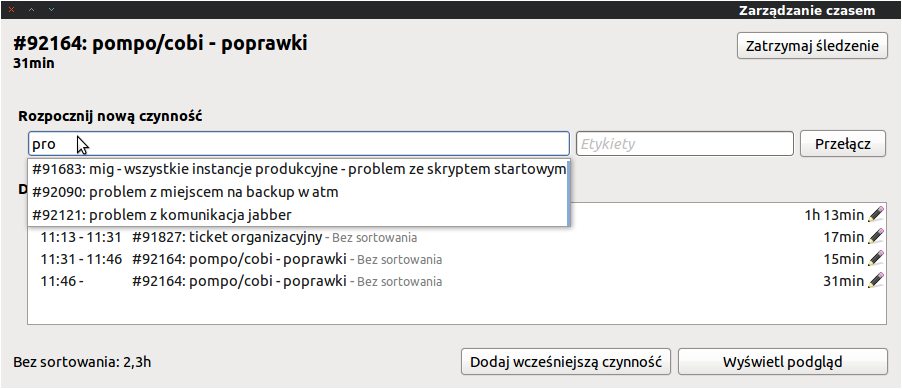
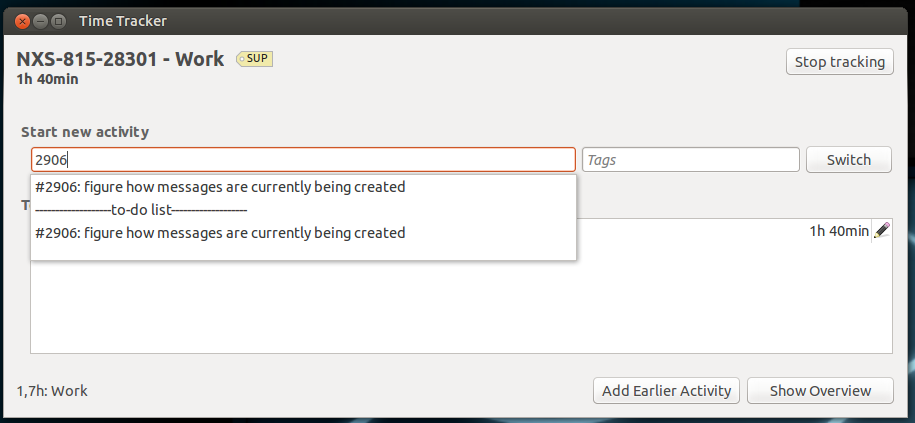
Changed entry.png and readme + fixed dry run to actually be a dry run

Changed region(s): [[0.0, 0.0, 1.0, 1.0], [0.1242, 0.7095, 0.4967, 0.7404]]

diff --git a/src/hamster/exportrt.py b/src/hamster/exportrt.py
@@ -223,8 +223,8 @@ class ExportRtController(gtk.Object):
         self.get_widget("activities").add(self.view)
         self.aggregate_comments_checkbox = self.get_widget("aggregate_comments_checkbox")
         self.aggregate_comments_checkbox.set_active(True)
-        self.test_checkox = self.get_widget("test_checkbox")
-        self.test_checkox.set_active(False)
+        self.test_checkbox = self.get_widget("test_checkbox")
+        self.test_checkbox.set_active(False)
         self.progressbar = self.get_widget("progressbar")
         self.progressbar.set_text(_("Waiting for action"))
         self.progressbar.set_orientation(gtk.PROGRESS_LEFT_TO_RIGHT)
@@ -283,47 +283,21 @@ class ExportRtController(gtk.Object):
                 self.progressbar.set_fraction(float(i)/to_report_len)
                 while gtk.events_pending(): 
                     gtk.main_iteration()
-                if self.source == "rt":
-                    self.__comment_ticket(to_report['id'], to_report['comment'], to_report['time'], to_report['facts'])
-                elif self.source == "redmine":
+                if self.source == "redmine":
                     #act# self.__add_time_entry(to_report['id'], to_report['date'], math.ceil(to_report['time']*100/60)/100, to_report['comment'], to_report['facts'], to_report['activity'])
                     self.__add_time_entry(to_report['id'], to_report['date'], math.ceil(to_report['time']*100/60)/100, to_report['comment'], to_report['facts'])
             self.progressbar.set_text("Done")
             self.progressbar.set_fraction(1.0)
-#            for fact in self.facts:
-#                match = re.match(TICKET_NAME_REGEX, fact.activity)
-#                if fact.end_time and match:
-#                    ticket_id = match.group(1)
-#                    text = self.get_text(fact)
-#                    time_worked = stuff.duration_minutes(fact.delta)
-#                    logging.warn(ticket_id)
-#                    logging.warn(text)
-#                    logging.warn("minutes: %s" % time_worked)
-##                    external.tracker.comment(ticket_id, text, time_worked)
-#                else:
-#                    logging.warn("Not a RT ticket or in progress: %s" % fact.activity)
         else:
             logging.warn(_("Not connected to/logged in RT"))
         self.start_button.set_sensitive(False)
         #TODO only if parent is overview
         self.parent.search()
             
-    def __comment_ticket(self, ticket_id, text, time_worked, facts):
-        test = self.test_checkox.get_active()
-#        logging.warn(_("updating ticket #%s: %s min, comment: \n%s") % (ticket_id, time_worked, text))
-        if not test:
-            time = time_worked
-        else:
-            time = 0
-
-        if self.tracker.comment(ticket_id, text, time) and not test:
-            for fact in facts:
-                runtime.storage.update_fact(fact.id, fact, False,True)
-#                fact_row.selected = False
             
     #act# def __add_time_entry(self, issue_id, spent_on, hours, comments, facts, activity):
     def __add_time_entry(self, issue_id, spent_on, hours, comments, facts):
-        test = self.test_checkox.get_active()
+        test = self.test_checkbox.get_active()
         logging.warn(_("updating issue #%s: %s hrs, comment: \n%s") % (issue_id, hours, comments))
         time_entry_data = {'time_entry': {}}
         time_entry_data['time_entry']['issue_id'] = issue_id
@@ -332,23 +306,17 @@ class ExportRtController(gtk.Object):
         time_entry_data['time_entry']['comments'] = comments
         #act# time_entry_data['time_entry']['activity_id'] = 9 if activity == -1 else activity
         time_entry_data['time_entry']['activity_id'] = 9
-
-        
-        r = self.tracker.createTimeEntry(time_entry_data)
-        logging.warn(r.status_code)
-        logging.warn(r.content)
-        if r.status_code == 201 and not test:
-            for fact in facts:
-                runtime.storage.update_fact(fact.id, fact, False,True)
-#                fact_row.selected = False
-
-    def get_text(self, fact):
-        text = "%s, %s-%s" % (fact.date, fact.start_time.strftime("%H:%M"), fact.end_time.strftime("%H:%M"))
-        if fact.description:
-            text += ": %s" % (fact.description)
-        if fact.tags:
-            text += " ("+", ".join(fact.tags)+")"
-        return text
+        for fact in facts:
+            print fact.id
+            print fact
+        if not test:
+            r = self.tracker.createTimeEntry(time_entry_data)
+            logging.warn(r.status_code)
+            logging.warn(r.content)
+            if r.status_code == 201:
+                for fact in facts:
+                    runtime.storage.update_fact(fact.id, fact, False,True)
+    #                fact_row.selected = False
 
     def on_window_key_pressed(self, tree, event_key):
         popups = self.start_date.popup.get_property("visible") or \

diff --git a/src/hamster/overview.py b/src/hamster/overview.py
@@ -436,37 +436,13 @@ class Overview(gtk.Object):
             self._gui = None
             self.window.destroy()
             self.window = None
-
             self.emit("on-close")
-           
-#    UNUSED 
-    def on_done_activate(self, button):
-        pass
-    
-#    UNUSED
-    def on_export_rt_activate(self, widget):
-        pass
-    
+
+
     def on_start_activate(self, button):
         to_report = filter(self.__is_rt_ticket, self.fact_tree.get_model())
         to_report = [row[0].fact for row in to_report]
         dialogs.export_rt.show(self, facts = to_report)
-        
-    def on_start_activate_2(self, button):
-        self.start_button.set_sensitive(False)
-        while gtk.events_pending(): 
-            gtk.main_iteration()
-#        runtime.storage.update_fact(fact_id, fact, temporary_activity, exported)
-        tree = self.fact_tree
-        to_report = filter(self.__is_rt_ticket, tree.get_model())
-        
-        for row in to_report:
-            self.__report(row[0])
-                
-        self.search()
-        while gtk.events_pending(): 
-            gtk.main_iteration()
-        self.start_button.set_sensitive(True)
         
     def __is_rt_ticket(self, row):
         if not self.external.tracker:
@@ -474,35 +450,14 @@ class Overview(gtk.Object):
             return False
         if not isinstance(row[0], FactRow):
             return False
-#            self.__report(row[0])
         fact = row[0].fact
         match = re.match(TICKET_NAME_REGEX, fact.activity)
         if row[0].selected and fact.end_time and match:
             return True
         else:
             return False
-    
-    def __report(self, fact_row):
-        fact = fact_row.fact
-        logging.warn(fact_row.name)
-        if self.external.tracker:
-            match = re.match(TICKET_NAME_REGEX, fact.activity)
-#            if not fact_row.selected:
-#                logging.warn("Row not selected: %s" % fact.activity)
-            if fact_row.selected and fact.end_time and match:
-                ticket_id = match.group(1)
-                text = self.get_text(fact)
-                time_worked = stuff.duration_minutes(fact.delta)
-                if self.external.tracker.comment(ticket_id, text, time_worked):
-                    logging.warn("updated ticket #%s: %s - %s min" % (ticket_id, text, time_worked))
-                    runtime.storage.update_fact(fact.id, fact, False,True)
-                    fact_row.selected = False
-                    
-            else:
-                logging.warn("Not a RT ticket or in progress: %s" % fact.activity)
-        else:
-            logging.warn("Not connected to/logged in RT")
-            
+
+
     def get_text(self, fact):
         text = "%s, %s-%s" % (fact.date, fact.start_time.strftime("%H:%M"), fact.end_time.strftime("%H:%M"))
         if fact.description:
@@ -510,22 +465,17 @@ class Overview(gtk.Object):
         if fact.tags:
             text += " ("+", ".join(fact.tags)+")"
         return text
-    
+
+
     def on_delete_window(self, window, event):
         self.close_window()
         return True
 
+
     #PRL
     def on_get_redmine_issues(self, button):
         last_issue = runtime.storage.get_last_redmine_issue()
-
-        if last_issue != 0:
-            # run a normal get if it already has issues
-            activities = self.external.get_redmine_activities()
-        else:
-            # if DB is empty, get all open redmine tickets
-            activities = self.external.get_all_redmine_activities()
-            logging.warn("Running first time get")
+        activities = self.external.get_redmine_activities() if last_issue != 0 else self.external.get_all_redmine_activities()
 
         # send redmine activities to DB
         for activity in activities:
